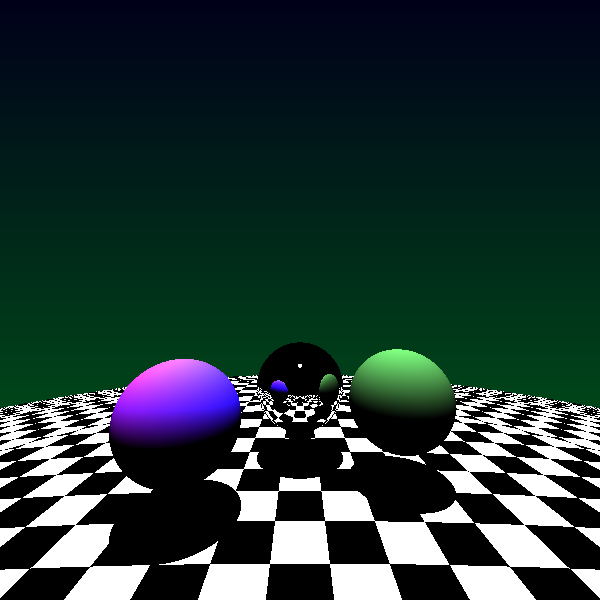
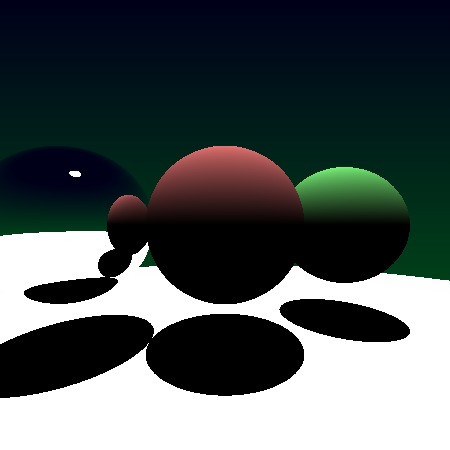
Donezo

diff --git a/assignment4/RayTracer.py b/assignment4/RayTracer.py
@@ -30,24 +30,15 @@ class RayTracer(object):
 
 				# Check this out for structure.
 				# http://www.cs.jhu.edu/~cohen/RendTech99/Lectures/Ray_Tracing.bw.pdf
-				ray_hit_object, hit_point, hit_object = self.intersectedObject(ray)
-
-				if ray_hit_object:
-					color = self.hit_point_color(hit_point, hit_object, ray)
-					if color != None:
-						self.image.putpixel((i,j), color.get_256_tuple())
-					else:
-						self.image.putpixel((i,j), self.backgroundColor(ray))
-
-				else:
-					self.image.putpixel((i,j), self.backgroundColor(ray))
+				color = self.ray_point_color(ray)
+				self.image.putpixel((i,j), color.get_256_tuple())
 
 	def backgroundColor(self, ray):
 		r = 0
 		g = 0.2*(1 - ray.destination.y)
 		b = 0.1
 
-		return RGBColor(r, g, b).get_256_tuple()
+		return RGBColor(r, g, b)
 
 	def intersectedObject(self, ray):
 		ray_hit_object = False
@@ -74,35 +65,43 @@ class RayTracer(object):
 		else:
 			return (False, None, None)
 
-	def hit_point_color(self, hit_point, hit_object, hit_ray):
-		unit_normal = hit_point - hit_object.center
-		normal_vector = unit_normal.normal()
+	def ray_point_color(self, ray):
+		ray_hit_object, hit_point, hit_object = self.intersectedObject(ray)
 
-		# Calculate shading
-		# So take the point on the surface of the sphere
-		# then, figure out the distance from it to the center.
-		# Then take the normal of that.
-		color = hit_object.color
-		if hit_object.is_light is False and hit_object.is_mirror is False:
-			shader = max(0.0, normal_vector.y)
-			color = hit_object.colorAtPoint(hit_point) * shader
+		if ray_hit_object:
+			unit_normal = hit_point - hit_object.center
+			normal_vector = unit_normal.normal()
 
-		if hit_object.is_mirror:
-			color = self.recursiveReflections(hit_object, hit_point, hit_ray, normal_vector)
+			# Calculate shading
+			# So take the point on the surface of the sphere
+			# then, figure out the distance from it to the center.
+			# Then take the normal of that.
+			color = hit_object.color
+			if hit_object.is_light is False and hit_object.is_mirror is False:
+				shader = max(0.0, normal_vector.y)
+				color = hit_object.colorAtPoint(hit_point) * shader
 
-		# Calculate shadows
-		for shadow_obj in self.objects:
-			# semi_rand = Vec3(-1+2*random.random(),2*random.random(),-1+2*random.random())
-			shadow_ray = Ray(hit_point, Vec3(0, 1, 0))
+			if hit_object.is_mirror:
+				color = self.recursiveReflections(hit_object, hit_point, ray, normal_vector)
 
-			hit, distance = shadow_obj.intersect(shadow_ray)
+			# Calculate shadows
+			for shadow_obj in self.objects:
+				# semi_rand = Vec3(-1+2*random.random(),2*random.random(),-1+2*random.random())
+				shadow_ray = Ray(hit_point, Vec3(0, 1, 0))
 
-			not_self = shadow_obj != hit_object
+				hit, distance = shadow_obj.intersect(shadow_ray)
 
-			if hit and not_self:
-				color = RGBColor(0,0,0)
+				not_self = shadow_obj != hit_object
+				is_not_a_light = shadow_obj.is_light == False
 
-		return color
+				if hit and not_self and is_not_a_light:
+					color = RGBColor(0,0,0)
+
+			return color
+
+		else:
+			return self.backgroundColor(ray)
+
 
 
 	def recursiveReflections(self, obj, initial_hit, ray, normal, depth=0):
@@ -113,16 +112,8 @@ class RayTracer(object):
 		# c = (2 * dot(ray.destination, normal) * normal)
 		# reflection = (ray.destination - c).normal()
 
-		# Do the multiplication to prevent math errors
 		reflection_ray = Ray(initial_hit + normal * TINY, reflection)
-
-		ray_hit_object, hit_point, hit_object = self.intersectedObject(reflection_ray)
-
-		if ray_hit_object and hit_object is not obj:
-			return self.hit_point_color(hit_point, hit_object, reflection_ray)
-		else:
-			# return background color!!
-			return RGBColor(0,0,0)
+		return self.ray_point_color(reflection_ray)
 
 		# print "Reflection of {0}".format(ray.destination)
 		# print rl
@@ -142,9 +133,8 @@ class RayTracer(object):
 							is_light=True)
 		self.objects.append(light_sphere)
 
-		sphere1_center = Vec3(0, 0, -5)
-		red_center = Sphere(sphere1_center, 1,
-							is_mirror=True) #Red
+		sphere1_center = Vec3(0, 0, -3)
+		red_center = Sphere(sphere1_center, 1, color=RGBColor(1.0, 0.5, 0.5)) #Red
 		self.objects.append(red_center)
 
 		sphere2_center = Vec3(2, 0, -4)
@@ -155,14 +145,13 @@ class RayTracer(object):
 		sphere3_center = Vec3(-2, 0, -3)
 		blue_left = Sphere(sphere3_center, 1,
 							color=RGBColor(0.5, 0.5, 1.0),
-							pattern="related_abs") #Blue
+							is_mirror=True) #Blue
 		self.objects.append(blue_left)
 
 		sphere4_center = Vec3(0, -100, 0)
 		circle4 = Sphere(sphere4_center, 98.5,
 							color=RGBColor(1.0, 1.0, 1.0),
-							name="Monster",
-							pattern="checkerboard")
+							name="Monster")
 		self.objects.append(circle4)
 
 	def export(self, file_name):
@@ -176,7 +165,7 @@ class Ray(object):
 
 if __name__ == '__main__':
 	# Vec3(left right, up down, back forth)
-	tracer = RayTracer(600, 600, Vec3(0, 2, 2))
+	tracer = RayTracer(450, 450, Vec3(0, 0, 0))
 	tracer.add_objects()
 	tracer.trace()
 	tracer.export("out.png")

diff --git a/assignment4/TracerObjects.py b/assignment4/TracerObjects.py
@@ -4,7 +4,7 @@ from GraphicsUtils import *
 from math import sqrt, pow, pi, floor
 
 class Sphere(object):
-	def __init__(self, center, radius, color=None, pattern="solid", name=None, is_mirror=False, is_light=False):
+	def __init__(self, center, radius, color=None, pattern="solid", name=None, is_mirror=False, is_light=False, casts_shadow=None):
 		self.center = center
 		self.radius = float(radius)
 		self.color = color
@@ -12,6 +12,7 @@ class Sphere(object):
 
 		self.is_mirror = is_mirror
 		self.is_light = is_light
+		self.casts_shadow = True if casts_shadow == None else True
 
 		if name == None:
 			self.name = "A circle of size {0} at {1}".format(self.radius, self.center)
